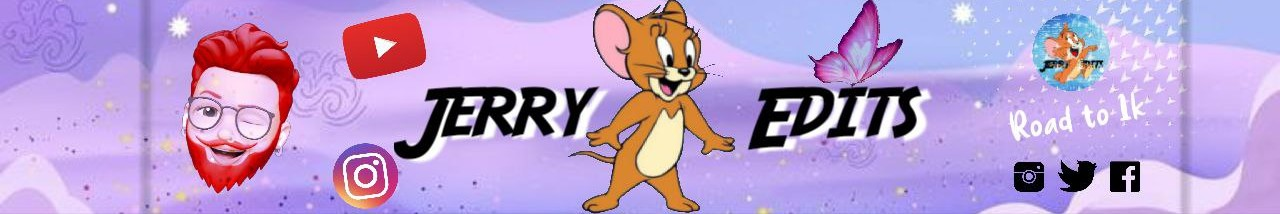
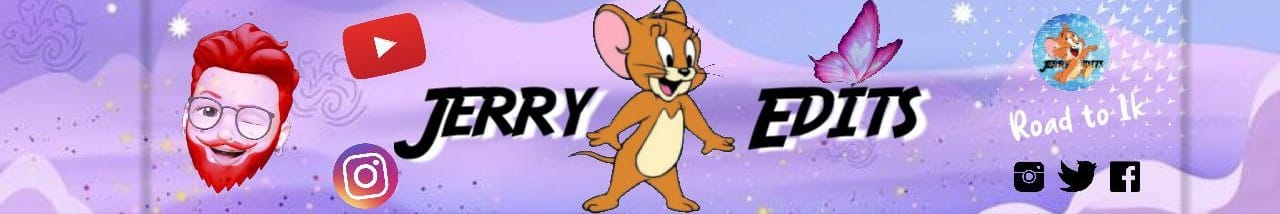
perf(pagespeed): optimize background images to WebP, add cache-control headers, and add width/height to all thumbnails

Changed region(s): [[0.8125, 0.757, 0.8438, 0.785], [0.2812, 0.729, 0.3125, 0.757]]

diff --git a/frontend/videos.html b/frontend/videos.html
@@ -159,7 +159,7 @@
     <section id="videos-section" class="videos-grid">
         <div class="video-card" onclick="loadVideo(this, 'rjQmx2csSoM')">
             <div class="video-thumb-wrap">
-                <img src="https://i.ytimg.com/vi/rjQmx2csSoM/mqdefault.jpg" alt="kadhal kan kattudhe Love song full screen whatsapp status" loading="lazy">
+                <img src="https://i.ytimg.com/vi/rjQmx2csSoM/mqdefault.jpg" alt="kadhal kan kattudhe Love song full screen whatsapp status" loading="lazy" width="320" height="180">
                 <div class="play-btn-overlay"><div class="play-btn-circle"><svg viewBox="0 0 24 24" fill="white" width="26" height="26"><path d="M8 5v14l11-7z"/></svg></div></div>
             </div>
             <p class="video-title">kadhal kan kattudhe🌹 Love song 💞 full screen whatsapp status ❤</p>
@@ -167,7 +167,7 @@
         </div>
         <div class="video-card" onclick="loadVideo(this, '9xndQKn88Hs')">
             <div class="video-thumb-wrap">
-                <img src="https://i.ytimg.com/vi/9xndQKn88Hs/mqdefault.jpg" alt="othayilae ulagam song tamil whatsapp status" loading="lazy">
+                <img src="https://i.ytimg.com/vi/9xndQKn88Hs/mqdefault.jpg" alt="othayilae ulagam song tamil whatsapp status" loading="lazy" width="320" height="180">
                 <div class="play-btn-overlay"><div class="play-btn-circle"><svg viewBox="0 0 24 24" fill="white" width="26" height="26"><path d="M8 5v14l11-7z"/></svg></div></div>
             </div>
             <p class="video-title">othayilae ulagam song👥tamil 💙 whatsapp status 🤙#friendship #tamilstatus</p>
@@ -175,7 +175,7 @@
         </div>
         <div class="video-card" onclick="loadVideo(this, 'fDMSl6u5V34')">
             <div class="video-thumb-wrap">
-                <img src="https://i.ytimg.com/vi/fDMSl6u5V34/mqdefault.jpg" alt="engeyum neeyadi whatsapp status tamil" loading="lazy">
+                <img src="https://i.ytimg.com/vi/fDMSl6u5V34/mqdefault.jpg" alt="engeyum neeyadi whatsapp status tamil" loading="lazy" width="320" height="180">
                 <div class="play-btn-overlay"><div class="play-btn-circle"><svg viewBox="0 0 24 24" fill="white" width="26" height="26"><path d="M8 5v14l11-7z"/></svg></div></div>
             </div>
             <p class="video-title">engeyum neeyadi 💌whatsapp status🥰tamil</p>
@@ -183,7 +183,7 @@
         </div>
         <div class="video-card" onclick="loadVideo(this, '0kgMFqMNP1Q')">
             <div class="video-thumb-wrap">
-                <img src="https://i.ytimg.com/vi/0kgMFqMNP1Q/mqdefault.jpg" alt="Thunivu chilla chilla song Vijay mix tamil whatsapp status" loading="lazy">
+                <img src="https://i.ytimg.com/vi/0kgMFqMNP1Q/mqdefault.jpg" alt="Thunivu chilla chilla song Vijay mix tamil whatsapp status" loading="lazy" width="320" height="180">
                 <div class="play-btn-overlay"><div class="play-btn-circle"><svg viewBox="0 0 24 24" fill="white" width="26" height="26"><path d="M8 5v14l11-7z"/></svg></div></div>
             </div>
             <p class="video-title">Thunivu-chilla chilla song ☮ Vijay mix tamil whatsapp status 🤙✨</p>
@@ -191,7 +191,7 @@
         </div>
         <div class="video-card" onclick="loadVideo(this, 'UTij5ULjgXA')">
             <div class="video-thumb-wrap">
-                <img src="https://i.ytimg.com/vi/UTij5ULjgXA/mqdefault.jpg" alt="kadhale kadhale x Milne hai mujhse love mix tamil whatsapp status" loading="lazy">
+                <img src="https://i.ytimg.com/vi/UTij5ULjgXA/mqdefault.jpg" alt="kadhale kadhale x Milne hai mujhse love mix tamil whatsapp status" loading="lazy" width="320" height="180">
                 <div class="play-btn-overlay"><div class="play-btn-circle"><svg viewBox="0 0 24 24" fill="white" width="26" height="26"><path d="M8 5v14l11-7z"/></svg></div></div>
             </div>
             <p class="video-title">kadhale kadhale × Milne hai mujhse 💌 love mix💟tamil whatsapp status</p>
@@ -199,7 +199,7 @@
         </div>
         <div class="video-card" onclick="loadVideo(this, 'mXO0SkBov1w')">
             <div class="video-thumb-wrap">
-                <img src="https://i.ytimg.com/vi/mXO0SkBov1w/mqdefault.jpg" alt="Ippadi mazhai vishal movie whatsapp status" loading="lazy">
+                <img src="https://i.ytimg.com/vi/mXO0SkBov1w/mqdefault.jpg" alt="Ippadi mazhai vishal movie whatsapp status" loading="lazy" width="320" height="180">
                 <div class="play-btn-overlay"><div class="play-btn-circle"><svg viewBox="0 0 24 24" fill="white" width="26" height="26"><path d="M8 5v14l11-7z"/></svg></div></div>
             </div>
             <p class="video-title">Ippadi mazhai 🌹vishal movie 🎵 whatsapp status</p>

diff --git a/frontend/insights.html b/frontend/insights.html
@@ -44,12 +44,17 @@
     <link rel="apple-touch-icon" sizes="180x180" href="/images/apple-touch-icon.png">
     <link rel="shortcut icon" href="/favicon.ico">
 
+    <!-- Resource Hints & Preconnects for Maximum PageSpeed -->
+    <link rel="preconnect" href="https://cdnjs.cloudflare.com" crossorigin>
+    <link rel="dns-prefetch" href="https://cdnjs.cloudflare.com">
+    <link rel="preconnect" href="https://pagead2.googlesyndication.com" crossorigin>
+    <link rel="dns-prefetch" href="https://pagead2.googlesyndication.com">
+
     <!-- Stylesheets -->
     <link rel="stylesheet" href="css/header.css">
     <link rel="stylesheet" href="css/insights.css">
-    <link rel='stylesheet' href='https://cdnjs.cloudflare.com/ajax/libs/font-awesome/6.7.2/css/all.css'
-        integrity='sha512-GmZYQ9SKTnOea030Tbiat0Y+jhnYLIpsGAe6QTnToi8hI2nNbVMETHeK4wm4MuYMQdrc38x+sX77+kVD01eNsQ=='
-        crossorigin='anonymous' />
+    <link rel="preload" href="https://cdnjs.cloudflare.com/ajax/libs/font-awesome/6.7.2/css/all.min.css" as="style" onload="this.onload=null;this.rel='stylesheet'">
+    <noscript><link rel="stylesheet" href="https://cdnjs.cloudflare.com/ajax/libs/font-awesome/6.7.2/css/all.min.css"></noscript>
 
     <!-- Structured Data (JSON-LD) -->
     <script type="application/ld+json">
@@ -91,7 +96,7 @@
                 <h3>Feel the love, vibe the emotion – 30 seconds at a time.</h3>
             </div>
             <div class="logo-img-wrapper">
-                <img src="images/logo.jpg" alt="Jerry-Edits" class="top-bar-logo">
+                <img src="images/logo-sm.webp" onerror="this.onerror=null;this.src='images/logo-sm.jpg';" alt="Jerry-Edits" class="top-bar-logo" width="65" height="65">
             </div>
         </div>
     </section>
@@ -99,7 +104,7 @@
     <nav class="nav-sticky">
         <div class="nav-header">
             <div class="nav-brand-wrapper">
-                <img src="images/logo.jpg" alt="Jerry-Edits" class="nav-logo">
+                <img src="images/logo-sm.webp" onerror="this.onerror=null;this.src='images/logo-sm.jpg';" alt="Jerry-Edits" class="nav-logo" width="45" height="45">
                 <span class="nav-brand">Jerry Edits</span>
             </div>
             <button class="menu-toggle" id="menu-toggle" aria-label="Toggle navigation">
@@ -118,7 +123,7 @@
     <section class="section-4" id="section-4">
         <div>
             <div class="left">
-                <img class="logo" src="images/logo.jpg" alt="Jerry-Edits logo">
+                <img class="logo" src="images/logo-sm.webp" onerror="this.onerror=null;this.src='images/logo-sm.jpg';" alt="Jerry-Edits logo" width="130" height="130">
                 <div class="font">
                     <p>Jerry-Edits</p>
                     <a href="https://www.youtube.com/@jerryedits4" target="_blank" rel="noopener noreferrer">

diff --git a/frontend/contact.html b/frontend/contact.html
@@ -19,11 +19,18 @@
     <link rel="icon" type="image/png" sizes="16x16" href="/images/favicon-16x16.png">
     <link rel="icon" type="image/png" sizes="32x32" href="/images/favicon-32x32.png">
 
+    <!-- Resource Hints & Preconnects for Maximum PageSpeed -->
+    <link rel="preconnect" href="https://cdnjs.cloudflare.com" crossorigin>
+    <link rel="dns-prefetch" href="https://cdnjs.cloudflare.com">
+    <link rel="preconnect" href="https://pagead2.googlesyndication.com" crossorigin>
+    <link rel="dns-prefetch" href="https://pagead2.googlesyndication.com">
+
     <!-- Stylesheets -->
     <link rel="stylesheet" href="css/header.css">
     <link rel="stylesheet" href="css/insights.css">
     <link rel="stylesheet" href="css/pages.css">
-    <link rel='stylesheet' href='https://cdnjs.cloudflare.com/ajax/libs/font-awesome/6.7.2/css/all.css' crossorigin='anonymous' />
+    <link rel="preload" href="https://cdnjs.cloudflare.com/ajax/libs/font-awesome/6.7.2/css/all.min.css" as="style" onload="this.onload=null;this.rel='stylesheet'">
+    <noscript><link rel="stylesheet" href="https://cdnjs.cloudflare.com/ajax/libs/font-awesome/6.7.2/css/all.min.css"></noscript>
 </head>
 
 <body>
@@ -46,7 +53,7 @@
                 <h3>Feel the love, vibe the emotion – 30 seconds at a time.</h3>
             </div>
             <div class="logo-img-wrapper">
-                <img src="images/logo.jpg" alt="Jerry-Edits" class="top-bar-logo">
+                <img src="images/logo-sm.webp" onerror="this.onerror=null;this.src='images/logo-sm.jpg';" alt="Jerry-Edits" class="top-bar-logo" width="65" height="65">
             </div>
         </div>
     </section>
@@ -54,7 +61,7 @@
     <nav class="nav-sticky">
         <div class="nav-header">
             <div class="nav-brand-wrapper">
-                <img src="images/logo.jpg" alt="Jerry-Edits" class="nav-logo">
+                <img src="images/logo-sm.webp" onerror="this.onerror=null;this.src='images/logo-sm.jpg';" alt="Jerry-Edits" class="nav-logo" width="45" height="45">
                 <span class="nav-brand">Jerry Edits</span>
             </div>
             <button class="menu-toggle" id="menu-toggle" aria-label="Toggle navigation">

diff --git a/frontend/disclaimer.html b/frontend/disclaimer.html
@@ -19,11 +19,18 @@
     <link rel="icon" type="image/png" sizes="16x16" href="/images/favicon-16x16.png">
     <link rel="icon" type="image/png" sizes="32x32" href="/images/favicon-32x32.png">
 
+    <!-- Resource Hints & Preconnects for Maximum PageSpeed -->
+    <link rel="preconnect" href="https://cdnjs.cloudflare.com" crossorigin>
+    <link rel="dns-prefetch" href="https://cdnjs.cloudflare.com">
+    <link rel="preconnect" href="https://pagead2.googlesyndication.com" crossorigin>
+    <link rel="dns-prefetch" href="https://pagead2.googlesyndication.com">
+
     <!-- Stylesheets -->
     <link rel="stylesheet" href="css/header.css">
     <link rel="stylesheet" href="css/insights.css">
     <link rel="stylesheet" href="css/pages.css">
-    <link rel='stylesheet' href='https://cdnjs.cloudflare.com/ajax/libs/font-awesome/6.7.2/css/all.css' crossorigin='anonymous' />
+    <link rel="preload" href="https://cdnjs.cloudflare.com/ajax/libs/font-awesome/6.7.2/css/all.min.css" as="style" onload="this.onload=null;this.rel='stylesheet'">
+    <noscript><link rel="stylesheet" href="https://cdnjs.cloudflare.com/ajax/libs/font-awesome/6.7.2/css/all.min.css"></noscript>
 </head>
 
 <body>
@@ -46,7 +53,7 @@
                 <h3>Feel the love, vibe the emotion – 30 seconds at a time.</h3>
             </div>
             <div class="logo-img-wrapper">
-                <img src="images/logo.jpg" alt="Jerry-Edits" class="top-bar-logo">
+                <img src="images/logo-sm.webp" onerror="this.onerror=null;this.src='images/logo-sm.jpg';" alt="Jerry-Edits" class="top-bar-logo" width="65" height="65">
             </div>
         </div>
     </section>
@@ -54,7 +61,7 @@
     <nav class="nav-sticky">
         <div class="nav-header">
             <div class="nav-brand-wrapper">
-                <img src="images/logo.jpg" alt="Jerry-Edits" class="nav-logo">
+                <img src="images/logo-sm.webp" onerror="this.onerror=null;this.src='images/logo-sm.jpg';" alt="Jerry-Edits" class="nav-logo" width="45" height="45">
                 <span class="nav-brand">Jerry Edits</span>
             </div>
             <button class="menu-toggle" id="menu-toggle" aria-label="Toggle navigation">

diff --git a/frontend/privacy-policy.html b/frontend/privacy-policy.html
@@ -19,11 +19,18 @@
     <link rel="icon" type="image/png" sizes="16x16" href="/images/favicon-16x16.png">
     <link rel="icon" type="image/png" sizes="32x32" href="/images/favicon-32x32.png">
 
+    <!-- Resource Hints & Preconnects for Maximum PageSpeed -->
+    <link rel="preconnect" href="https://cdnjs.cloudflare.com" crossorigin>
+    <link rel="dns-prefetch" href="https://cdnjs.cloudflare.com">
+    <link rel="preconnect" href="https://pagead2.googlesyndication.com" crossorigin>
+    <link rel="dns-prefetch" href="https://pagead2.googlesyndication.com">
+
     <!-- Stylesheets -->
     <link rel="stylesheet" href="css/header.css">
     <link rel="stylesheet" href="css/insights.css">
     <link rel="stylesheet" href="css/pages.css">
-    <link rel='stylesheet' href='https://cdnjs.cloudflare.com/ajax/libs/font-awesome/6.7.2/css/all.css' crossorigin='anonymous' />
+    <link rel="preload" href="https://cdnjs.cloudflare.com/ajax/libs/font-awesome/6.7.2/css/all.min.css" as="style" onload="this.onload=null;this.rel='stylesheet'">
+    <noscript><link rel="stylesheet" href="https://cdnjs.cloudflare.com/ajax/libs/font-awesome/6.7.2/css/all.min.css"></noscript>
 </head>
 
 <body>
@@ -46,7 +53,7 @@
                 <h3>Feel the love, vibe the emotion – 30 seconds at a time.</h3>
             </div>
             <div class="logo-img-wrapper">
-                <img src="images/logo.jpg" alt="Jerry-Edits" class="top-bar-logo">
+                <img src="images/logo-sm.webp" onerror="this.onerror=null;this.src='images/logo-sm.jpg';" alt="Jerry-Edits" class="top-bar-logo" width="65" height="65">
             </div>
         </div>
     </section>
@@ -54,7 +61,7 @@
     <nav class="nav-sticky">
         <div class="nav-header">
             <div class="nav-brand-wrapper">
-                <img src="images/logo.jpg" alt="Jerry-Edits" class="nav-logo">
+                <img src="images/logo-sm.webp" onerror="this.onerror=null;this.src='images/logo-sm.jpg';" alt="Jerry-Edits" class="nav-logo" width="45" height="45">
                 <span class="nav-brand">Jerry Edits</span>
             </div>
             <button class="menu-toggle" id="menu-toggle" aria-label="Toggle navigation">

diff --git a/frontend/terms.html b/frontend/terms.html
@@ -19,11 +19,18 @@
     <link rel="icon" type="image/png" sizes="16x16" href="/images/favicon-16x16.png">
     <link rel="icon" type="image/png" sizes="32x32" href="/images/favicon-32x32.png">
 
+    <!-- Resource Hints & Preconnects for Maximum PageSpeed -->
+    <link rel="preconnect" href="https://cdnjs.cloudflare.com" crossorigin>
+    <link rel="dns-prefetch" href="https://cdnjs.cloudflare.com">
+    <link rel="preconnect" href="https://pagead2.googlesyndication.com" crossorigin>
+    <link rel="dns-prefetch" href="https://pagead2.googlesyndication.com">
+
     <!-- Stylesheets -->
     <link rel="stylesheet" href="css/header.css">
     <link rel="stylesheet" href="css/insights.css">
     <link rel="stylesheet" href="css/pages.css">
-    <link rel='stylesheet' href='https://cdnjs.cloudflare.com/ajax/libs/font-awesome/6.7.2/css/all.css' crossorigin='anonymous' />
+    <link rel="preload" href="https://cdnjs.cloudflare.com/ajax/libs/font-awesome/6.7.2/css/all.min.css" as="style" onload="this.onload=null;this.rel='stylesheet'">
+    <noscript><link rel="stylesheet" href="https://cdnjs.cloudflare.com/ajax/libs/font-awesome/6.7.2/css/all.min.css"></noscript>
 </head>
 
 <body>
@@ -46,7 +53,7 @@
                 <h3>Feel the love, vibe the emotion – 30 seconds at a time.</h3>
             </div>
             <div class="logo-img-wrapper">
-                <img src="images/logo.jpg" alt="Jerry-Edits" class="top-bar-logo">
+                <img src="images/logo-sm.webp" onerror="this.onerror=null;this.src='images/logo-sm.jpg';" alt="Jerry-Edits" class="top-bar-logo" width="65" height="65">
             </div>
         </div>
     </section>
@@ -54,7 +61,7 @@
     <nav class="nav-sticky">
         <div class="nav-header">
             <div class="nav-brand-wrapper">
-                <img src="images/logo.jpg" alt="Jerry-Edits" class="nav-logo">
+                <img src="images/logo-sm.webp" onerror="this.onerror=null;this.src='images/logo-sm.jpg';" alt="Jerry-Edits" class="nav-logo" width="45" height="45">
                 <span class="nav-brand">Jerry Edits</span>
             </div>
             <button class="menu-toggle" id="menu-toggle" aria-label="Toggle navigation">

diff --git a/frontend/css/insights.css b/frontend/css/insights.css
@@ -36,7 +36,7 @@ body {
 .section-4 {
     position: relative;
     text-align: center;
-    background: linear-gradient(45deg, rgba(0, 0, 0, 0.5), rgba(72, 69, 69, 0.7)), url('../images/background.jpg');
+    background: linear-gradient(45deg, rgba(0, 0, 0, 0.5), rgba(72, 69, 69, 0.7)), url('../images/background.webp');
     background-size: cover;
     background-position: center;
     height: 300px;

diff --git a/frontend/css/videos.css b/frontend/css/videos.css
@@ -35,7 +35,7 @@ body {
 .section-4 {
     position: relative;
     text-align: center;
-    background: linear-gradient(45deg, rgba(0, 0, 0, 0.5), rgba(72, 69, 69, 0.7)), url('../images/background.jpg');
+    background: linear-gradient(45deg, rgba(0, 0, 0, 0.5), rgba(72, 69, 69, 0.7)), url('../images/background.webp');
     background-size: cover;
     background-position: center;
     height: 300px;
